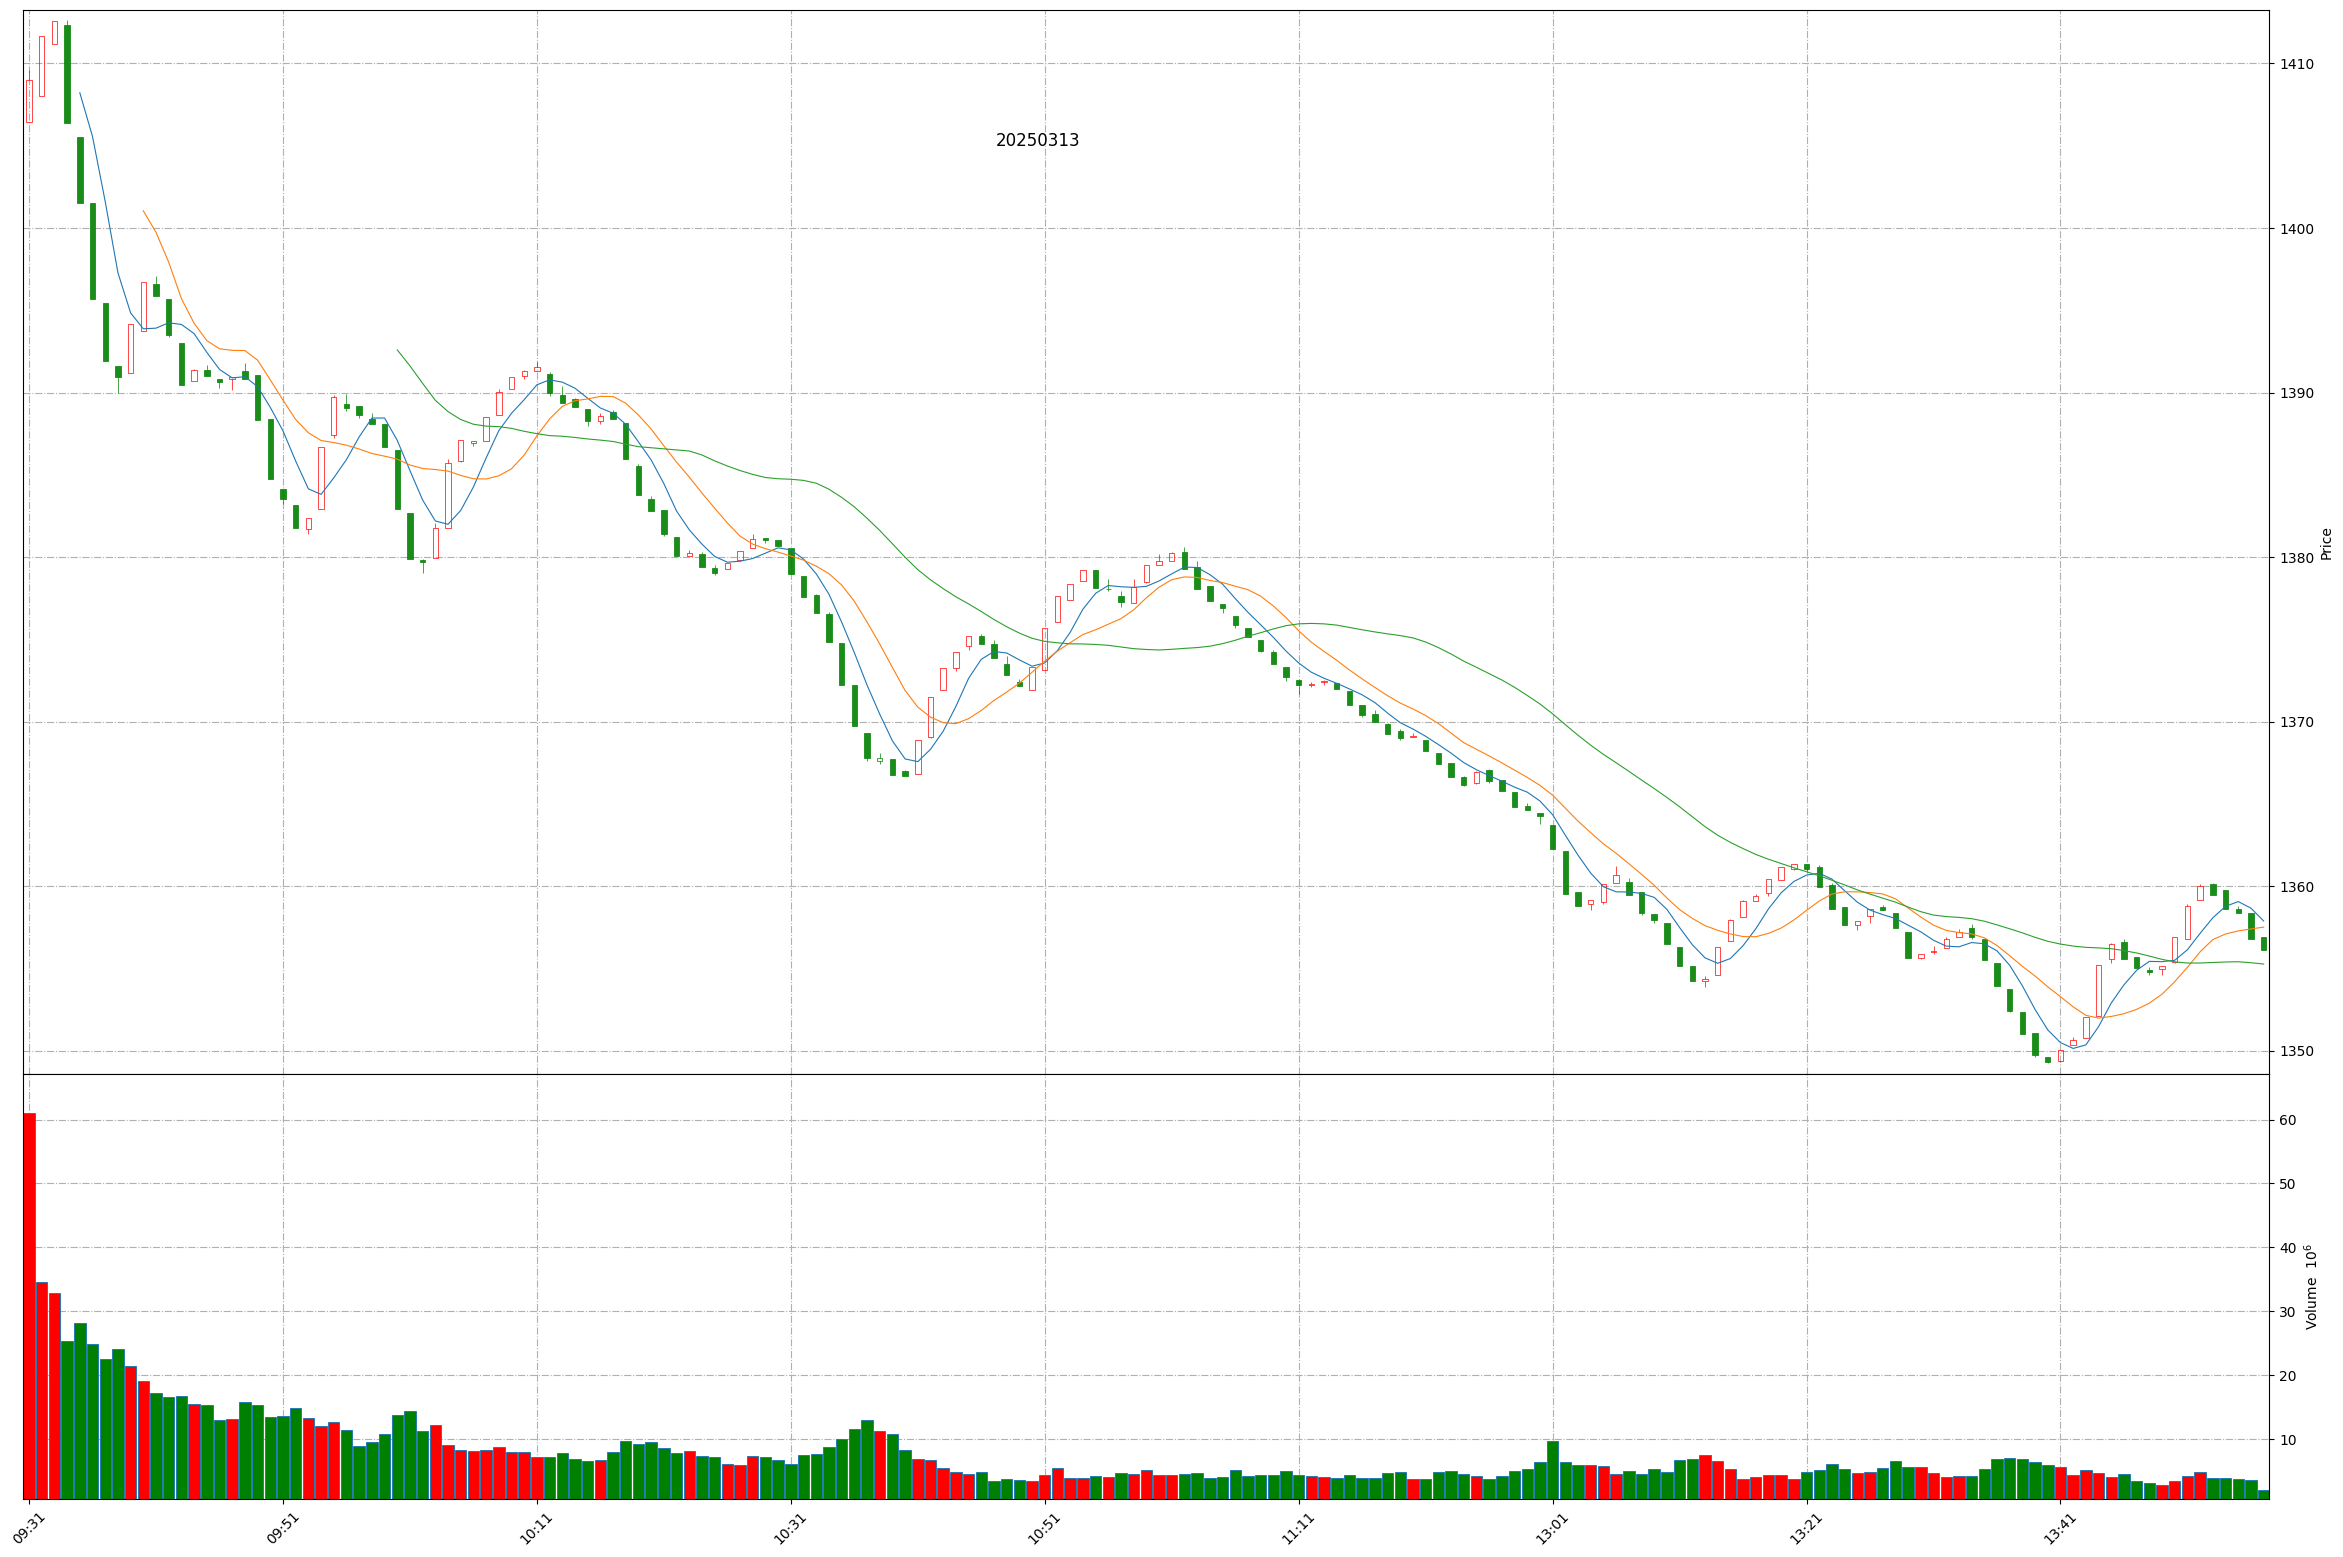
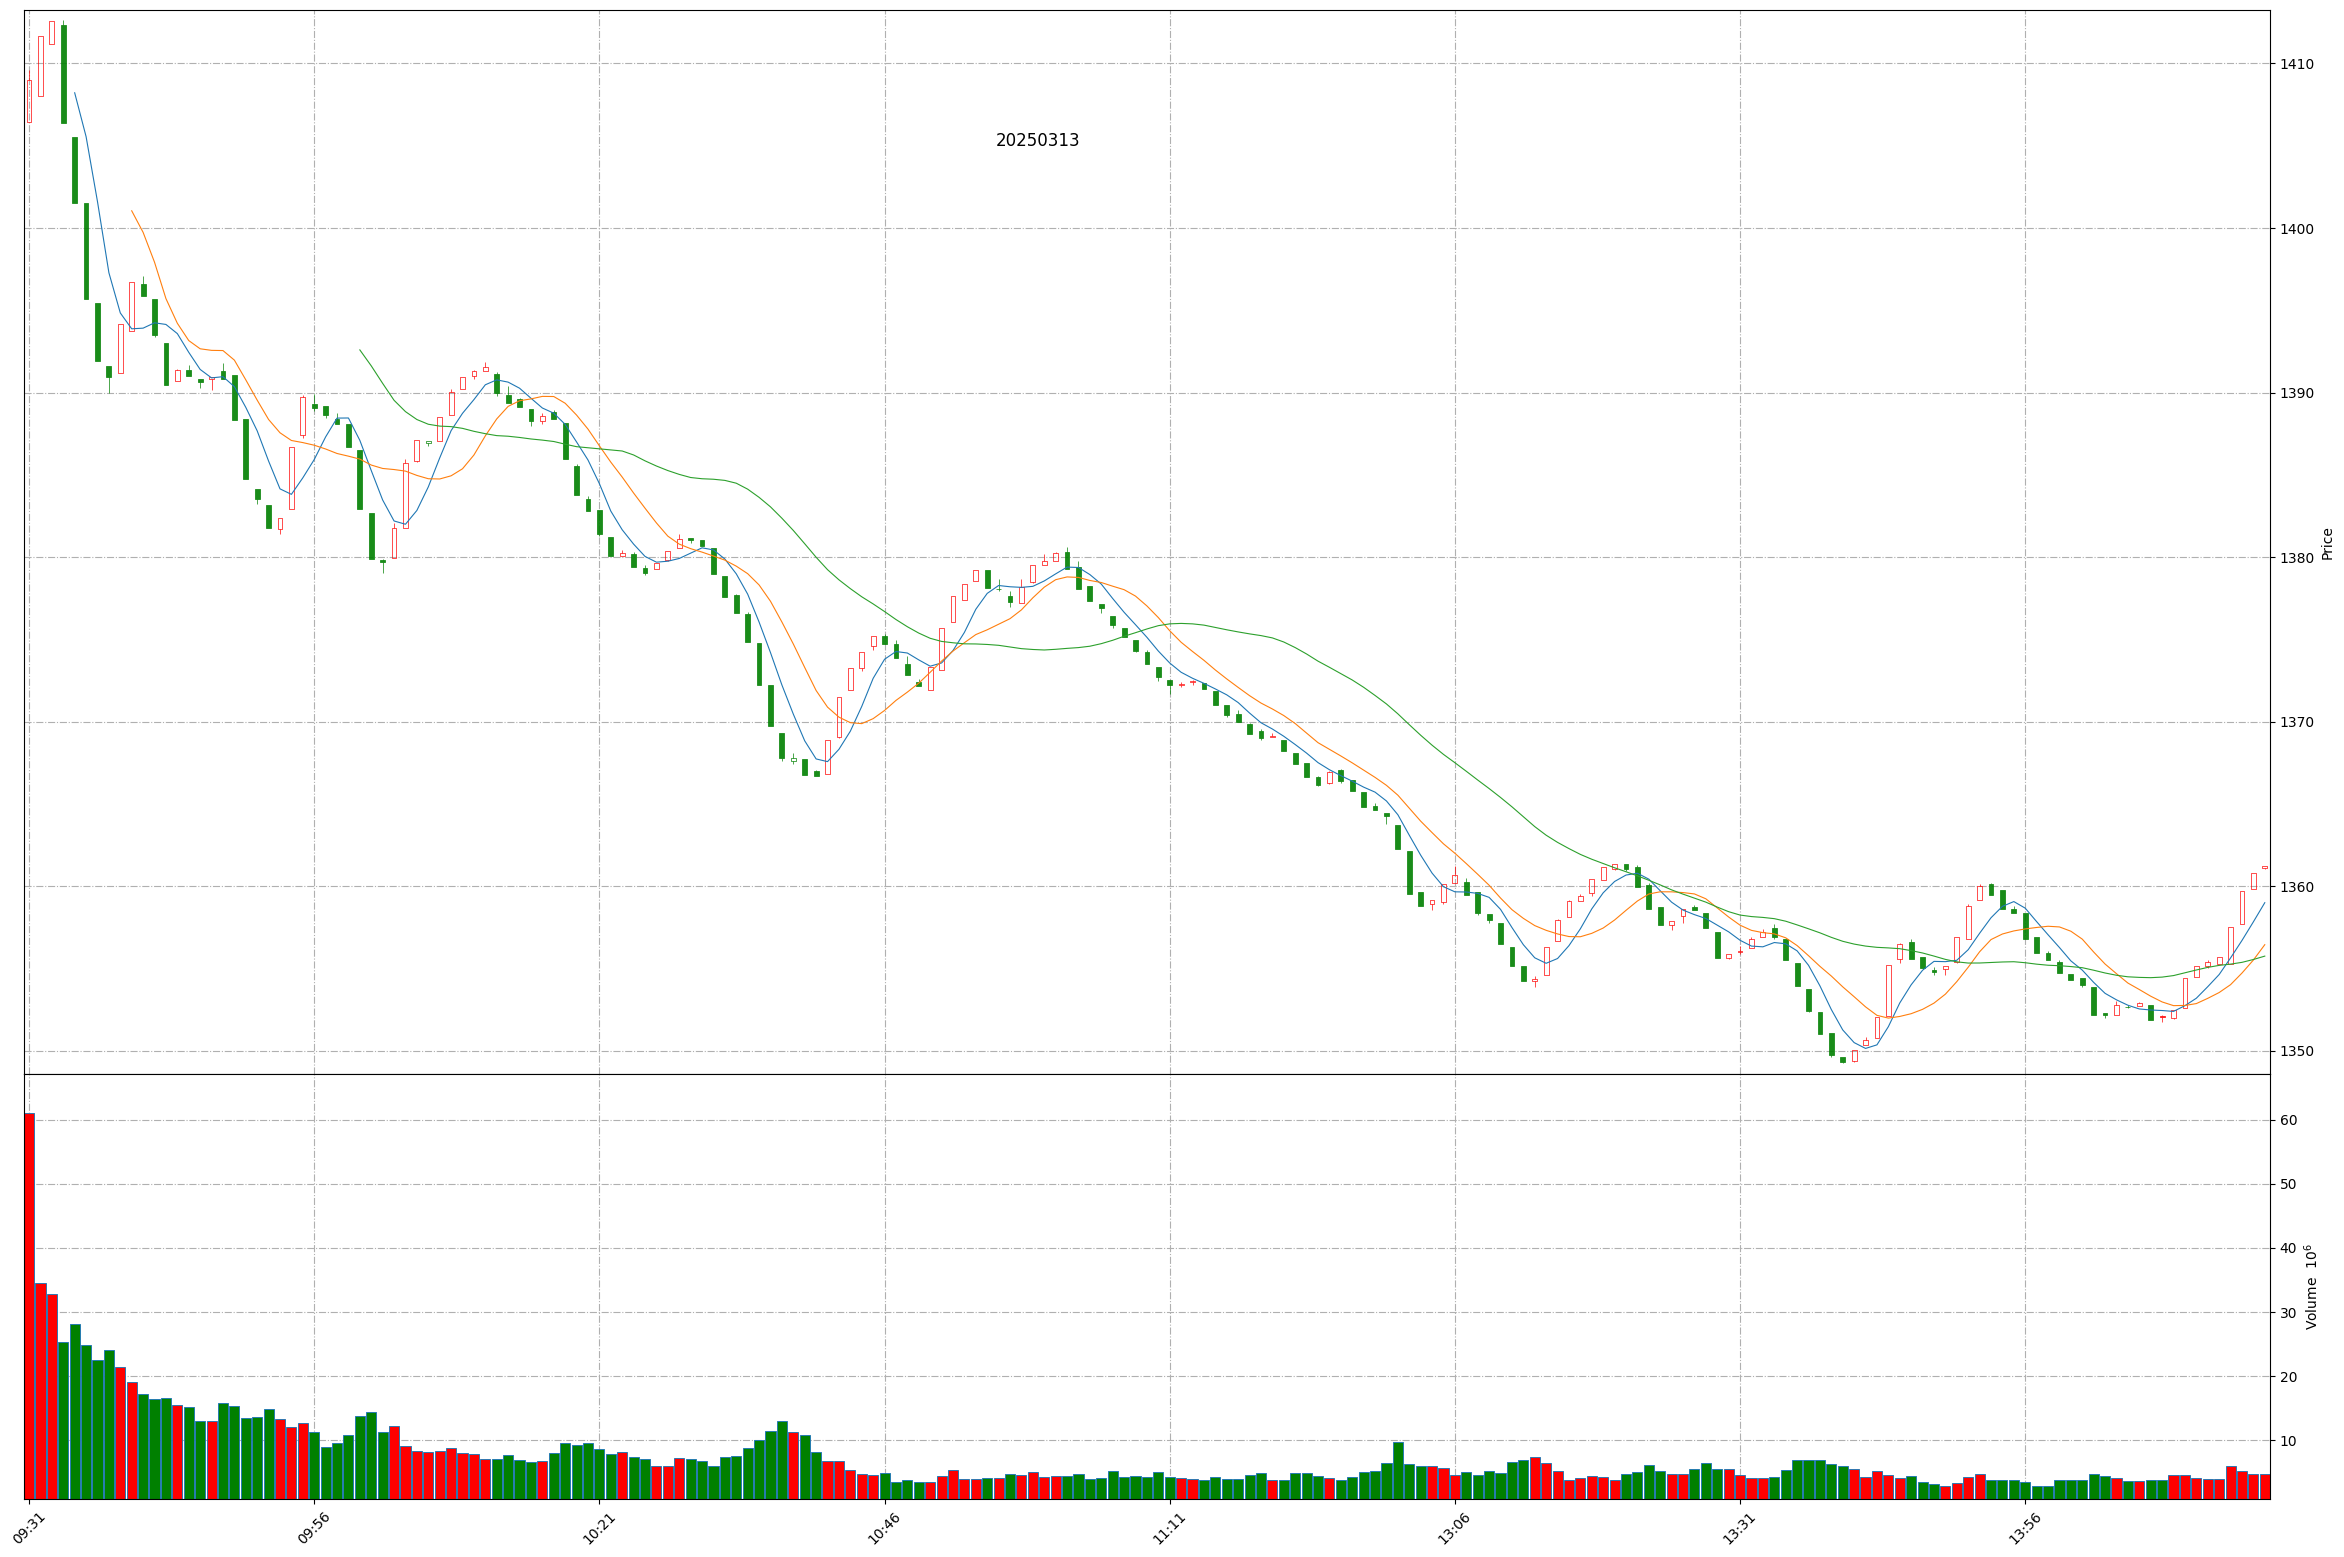
Github action update at 2025-03-13 14:17:07.

diff --git a/README.md b/README.md
@@ -1,11 +1,11 @@
 
 # Daily-A-share-market-quotes 每日 A 股指数（5min 更新）- 20250313
 
-### 上证指数 20250313 13:56
+### 上证指数 20250313 14:17
 ![](./fig/2025/3/20250313-sh000001.png)
 
-### 深证成指 20250313 13:56
+### 深证成指 20250313 14:17
 ![](./fig/2025/3/20250313-sz399001.png)
 
-### 北证50 20250313 13:56
+### 北证50 20250313 14:17
 ![](./fig/2025/3/20250313-bj899050.png)
